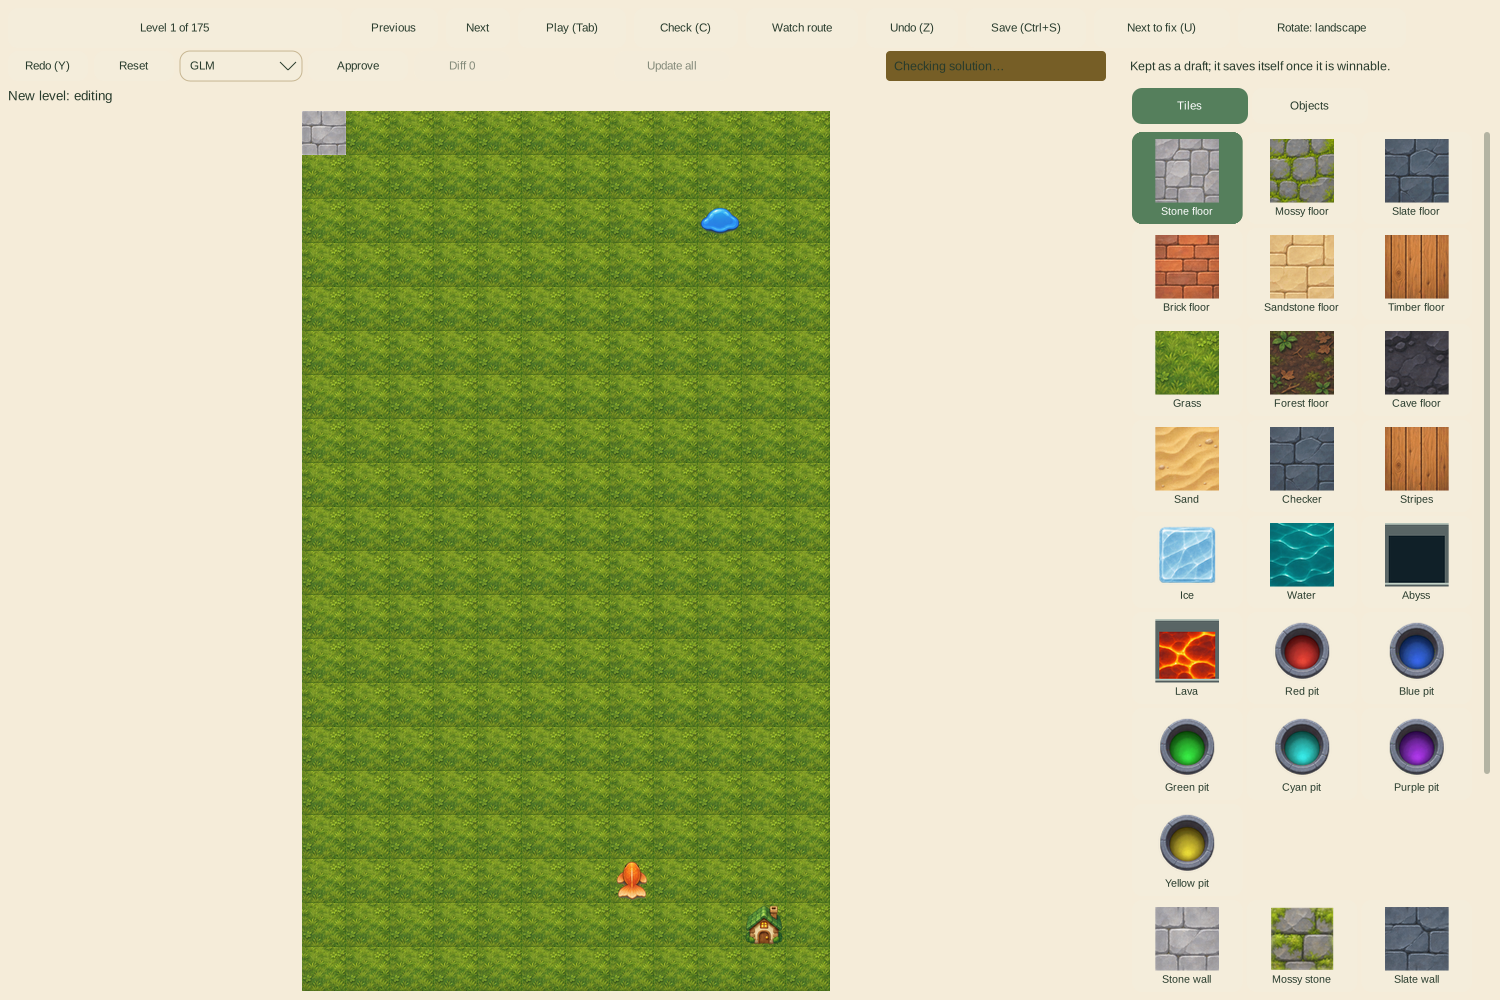
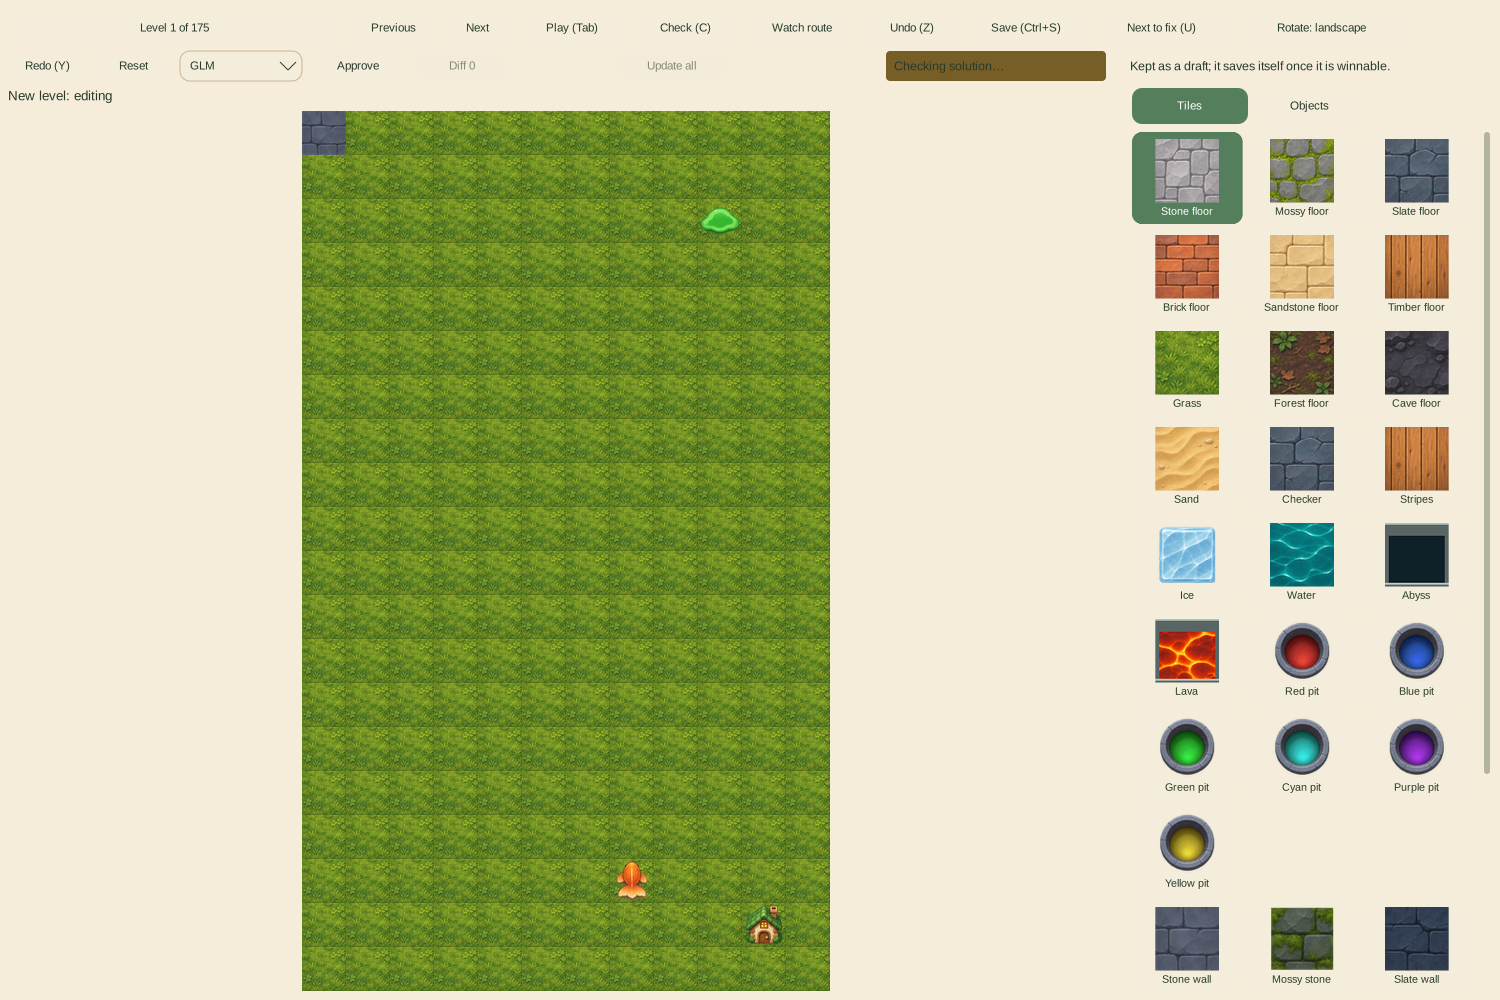
Verify modern atlas rendering in editor UI tests

diff --git a/tests/developer_editor_map_ui_test.py b/tests/developer_editor_map_ui_test.py
@@ -84,6 +84,17 @@ for width, height, orientation in ((1500, 1000, 'landscape'), (780, 1100, 'portr
     def find(predicate):
         return next(node for node in nodes() if predicate(node) and node.get('visible'))
 
+    def painted_map():
+        return {node['key']: (node['x'], node['y']) for node in nodes()
+                if node.get('kind') == 'image' and node.get('visible') and
+                60001 <= node.get('key', 0) <= 60037}
+
+    def movement(before, after):
+        shared = before.keys() & after.keys()
+        assert shared, 'No painted map section remained visible across the drag'
+        section = min(shared)
+        return tuple(after[section][axis] - before[section][axis] for axis in (0, 1))
+
     def pointer(x, y, click=False, button=1):
         subprocess.run(['xdotool', 'mousemove', '--window', window,
                         str(int(x)), str(int(y))], check=True)
@@ -145,62 +156,60 @@ for width, height, orientation in ((1500, 1000, 'landscape'), (780, 1100, 'portr
             map_node = wait(lambda: next((node for node in nodes()
                 if node.get('key') == 20105 and node.get('visible')), None),
                 'Map did not reopen')
-            before = find(lambda item: item.get('key') == 33002 and
-                          item.get('kind') == 'button')
+            before = painted_map()
             old_area_x = map_node['visible_x'] + map_node['visible_width'] * (
                 .82 if orientation == 'landscape' else .5)
             old_area_y = map_node['visible_y'] + map_node['visible_height'] * (
                 .5 if orientation == 'landscape' else .75)
             pointer(old_area_x, old_area_y)
-            subprocess.run(['xdotool', 'mousedown', '--window', window, '1'], check=True)
+            # XTest holds the button on this private display; --window only
+            # sends an event and does not establish a held physical button.
+            subprocess.run(['xdotool', 'mousedown', '1'], check=True)
             time.sleep(.05)
             subprocess.run(['xdotool', 'mousemove', '--window', window,
                             str(int(old_area_x - 180)), str(int(old_area_y - 40))], check=True)
             time.sleep(.08)
-            subprocess.run(['xdotool', 'mouseup', '--window', window, '1'], check=True)
+            subprocess.run(['xdotool', 'mouseup', '1'], check=True)
             time.sleep(.2)
-            dragged = find(lambda item: item.get('key') == 33002 and
-                           item.get('kind') == 'button')
-            # The v5 map has no free camera: drags follow the painted road.
-            # Landscape scrolls sideways; the portrait painting fills the
-            # width, so a sideways drag cannot pan there.
+            dragged = painted_map()
+            dx, dy = movement(before, dragged)
+            # The camera follows the pointer. The portrait painting fills
+            # the width, so its horizontal position stays clamped.
             if orientation == 'landscape':
-                assert dragged['visible_x'] < before['visible_x'] - 24, (before, dragged)
+                assert dx < -24, (before, dragged)
             else:
-                assert abs(dragged['visible_x'] - before['visible_x']) <= 1, (before, dragged)
-            # Portrait starts clamped at the map's foot, so the road must pass
-            # the camera's centre before the painting moves: drag farther there,
-            # clear of the dots on the left.
+                assert abs(dx) <= 1, (before, dragged)
+            # Drag on clear painting, away from the destination dots. Track
+            # image positions because the selected dot can leave the viewport.
             vertical_x = map_node['visible_x'] + map_node['visible_width'] * (
                 .5 if orientation == 'landscape' else .8)
             vertical_y = old_area_y if orientation == 'landscape' else (
                 map_node['visible_y'] + map_node['visible_height'] * .25)
             vertical_drag = 180 if orientation == 'landscape' else 440
             pointer(vertical_x, vertical_y)
-            subprocess.run(['xdotool', 'mousedown', '--window', window, '1'], check=True)
+            subprocess.run(['xdotool', 'mousedown', '1'], check=True)
             time.sleep(.05)
             subprocess.run(['xdotool', 'mousemove', '--window', window,
                             str(int(vertical_x)), str(int(vertical_y + vertical_drag))], check=True)
             time.sleep(.08)
-            subprocess.run(['xdotool', 'mouseup', '--window', window, '1'], check=True)
+            subprocess.run(['xdotool', 'mouseup', '1'], check=True)
             time.sleep(.2)
-            vertical = find(lambda item: item.get('key') == 33002 and
-                            item.get('kind') == 'button')
+            vertical = painted_map()
+            dx, dy = movement(dragged, vertical)
             # The landscape painting fills the height, so a vertical drag
             # cannot pan up or down there; portrait scrolls vertically.
             if orientation == 'landscape':
-                assert abs(vertical['visible_y'] - dragged['visible_y']) <= 1, (dragged, vertical)
+                assert abs(dy) <= 1, (dragged, vertical)
             else:
-                assert abs(vertical['visible_y'] - dragged['visible_y']) >= 24, (dragged, vertical)
+                assert dy >= 24, (dragged, vertical)
             assert (drafts / 'place').read_text().strip() == '2', 'Panning changed selection'
             pointer(old_area_x, old_area_y)
             subprocess.run(['xdotool', 'click', '4'], check=True)
             time.sleep(.2)
-            wheeled = find(lambda item: item.get('key') == 33002 and
-                           item.get('kind') == 'button')
+            wheeled = painted_map()
+            dx, dy = movement(vertical, wheeled)
             # The wheel also follows the road, sideways in landscape.
-            assert abs(wheeled['visible_x'] - vertical['visible_x']) + abs(
-                wheeled['visible_y'] - vertical['visible_y']) >= 16, (vertical, wheeled)
+            assert abs(dx) + abs(dy) >= 16, (vertical, wheeled)
             subprocess.run(['import', '-window', window,
                             str(OUTPUT / f'{orientation}.png')], check=True)
         finally:
@@ -213,4 +222,4 @@ for width, height, orientation in ((1500, 1000, 'landscape'), (780, 1100, 'portr
                 child.wait()
 
 print('Private editor selector: full map in portrait and landscape; no board preview; '
-      'dot focus, keyboard Edit, wheel and road-following drag all work')
+      'dot focus, keyboard Edit, wheel and pointer-following drag all work')

diff --git a/tests/editor_chest_ui_test.py b/tests/editor_chest_ui_test.py
@@ -1,5 +1,6 @@
 """The private selector edits the distinct 29a room and keeps level 29 unchanged."""
 import json
+import io
 import os
 import re
 from pathlib import Path
@@ -8,12 +9,20 @@ import subprocess
 import tempfile
 import time
 
+import numpy as np
+from PIL import Image
+
 ROOT = Path(__file__).resolve().parents[1]
 assert int(os.environ['DISPLAY'].split(':')[-1].split('.')[0]) >= 400
 BINARY = Path(os.environ.get('SHOVEY_EDITOR', ROOT / 'build/private-editor/shovey-level-editor'))
 ADMIN = os.environ.get('SHOVEY_ADMIN_TEST') == '1'
 OUTPUT = ROOT / 'build/editor-chest-test'
 OUTPUT.mkdir(parents=True, exist_ok=True)
+atlas_manifest = json.loads((ROOT / 'assets/shovey/sprites/atlas.json').read_text())
+chest_x, chest_y, chest_width, chest_height = atlas_manifest['frames']['portrait/chest-closed']
+with Image.open(ROOT / 'assets/shovey/sprites/atlas.png') as atlas:
+    chest_image = atlas.crop((chest_x, chest_y, chest_x + chest_width, chest_y + chest_height))
+chest_samples = {}
 
 
 def wait(predicate, message):
@@ -83,7 +92,29 @@ with tempfile.TemporaryDirectory(dir=OUTPUT, prefix='profile-') as temporary:
     def showing(label):
         return any(node.get('label') == label for node in nodes())
     def chest_shown():
-        return any(node.get('detail', '').endswith('/chest-closed.png') for node in nodes())
+        images = [node for node in nodes() if node.get('kind') == 'image' and
+                  node.get('visible') and node.get('detail', '').endswith('/sprites/atlas.png')]
+        if not images:
+            return False
+        # Every sprite now shares the atlas path. Check its actual painted
+        # opaque pixels, leaving transparent edges and their backdrop out.
+        capture = subprocess.check_output(['import', '-window', window, 'png:-'])
+        with Image.open(io.BytesIO(capture)) as image:
+            screenshot = image.convert('RGB')
+        for node in images:
+            width, height = round(node['width']), round(node['height'])
+            if min(width, height) < 16 or width != height:
+                continue
+            size = width, height
+            if size not in chest_samples:
+                expected = np.asarray(chest_image.resize(size, Image.Resampling.BILINEAR))
+                chest_samples[size] = expected[:, :, :3].astype(np.int16), expected[:, :, 3] >= 250
+            expected, opaque = chest_samples[size]
+            x, y = round(node['x']), round(node['y'])
+            actual = np.asarray(screenshot.crop((x, y, x + width, y + height)), dtype=np.int16)
+            if np.abs(actual - expected)[opaque].mean() < 12:
+                return True
+        return False
     def press(label):
         node = next(node for node in nodes() if node.get('label') == label and node.get('visible'))
         x = int(node['visible_x'] + node['visible_width'] / 2)
@@ -109,17 +140,20 @@ with tempfile.TemporaryDirectory(dir=OUTPUT, prefix='profile-') as temporary:
                                    for node in nodes()), 'Public editor exposed a secret level'
                     press('Level 28 of 175')
                     continue
-                wait(lambda: showing('29a'), f'29a absent from {mode} selector')
-                entries = {node['label']: node for node in nodes() if node.get('label') in ('29', '29a', '30')}
                 if mode == 'Levels':
+                    wait(lambda: showing('29a'), '29a absent from Levels selector')
+                    entries = {node['label']: node for node in nodes()
+                               if node.get('label') in ('29', '29a', '30')}
                     order = lambda name: (entries[name]['visible_y'], entries[name]['visible_x'])
                     assert order('29') < order('29a') < order('30'), '29a is not beside 29 in numeric order'
+                    press('29a')
                 else:
-                    # The secret is detached from the journey; focus reveals
-                    # its actual board, then Edit opens it explicitly.
+                    # The secret is detached from the journey. Focus brings
+                    # its map target into view; Edit opens its board explicitly.
                     subprocess.run(['xdotool', 'key', '--window', window, 'n', 'n'], check=True)
-                    wait(lambda: showing('Level 29a'), 'Secret map preview did not focus')
-                press('29a')
+                    wait(lambda: any(node.get('key') == 33178 and node.get('selected') and
+                                     node.get('visible') for node in nodes()),
+                         'Secret map target did not focus')
                 if mode == 'Map':
                     press('Edit')
                 wait(lambda: showing('Secret chest 29a'), '29a did not open the hidden room')

diff --git a/tests/developer_editor_designs_ui_test.py b/tests/developer_editor_designs_ui_test.py
@@ -31,6 +31,25 @@ def wait(predicate, message):
     raise AssertionError(message)
 
 
+def capture_board(window, path):
+    # Smooth sprite copies finish asynchronously. Compare settled pictures,
+    # including an unchanged interval, rather than capturing during warm-up.
+    deadline = time.monotonic() + 10
+    previous = None
+    unchanged_since = time.monotonic()
+    while time.monotonic() < deadline:
+        subprocess.run(['import', '-window', window, str(path)], check=True)
+        with Image.open(path).convert('RGB') as picture:
+            current = picture.crop((8, 110, 1124, 992))
+        if previous is None or ImageChops.difference(previous, current).getbbox() is not None:
+            unchanged_since = time.monotonic()
+        elif time.monotonic() - unchanged_since >= .5:
+            return
+        previous = current
+        time.sleep(.1)
+    raise AssertionError('Editor board pixels did not settle')
+
+
 def normalized(level):
     values = [int(''.join(level[key])[at:at + 2], 16)
               for key in ('cells', 'tiles', 'decorations') for at in range(0, 480, 2)]
@@ -73,7 +92,7 @@ with tempfile.TemporaryDirectory(dir=OUTPUT, prefix='profile-') as temporary:
                 subprocess.run(['xdotool', 'windowsize', window, '1500', '1000', 'windowfocus', window], check=True)
                 time.sleep(.4)
                 before = OUTPUT / f'{number}.png'
-                subprocess.run(['import', '-window', window, str(before)], check=True)
+                capture_board(window, before)
                 cell = 44  # floor((1000 - 118) / 20)
                 x = 8 + (1500 - 384 - cell * 12) / 2 + cell / 2
                 y = 110 + (1000 - 118 - cell * 20) / 2 + cell / 2
@@ -96,7 +115,7 @@ with tempfile.TemporaryDirectory(dir=OUTPUT, prefix='profile-') as temporary:
                     wait(lambda: (drafts / 'place').read_text().strip() == str(target), 'Wrong navigation result')
                 time.sleep(.2)
                 after = OUTPUT / f'{number}-revisited.png'
-                subprocess.run(['import', '-window', window, str(after)], check=True)
+                capture_board(window, after)
                 with Image.open(before).convert('RGB') as first, Image.open(after).convert('RGB') as second:
                     bounds = (8, 110, 1124, 992)
                     assert ImageChops.difference(first.crop(bounds), second.crop(bounds)).getbbox() is None, \
